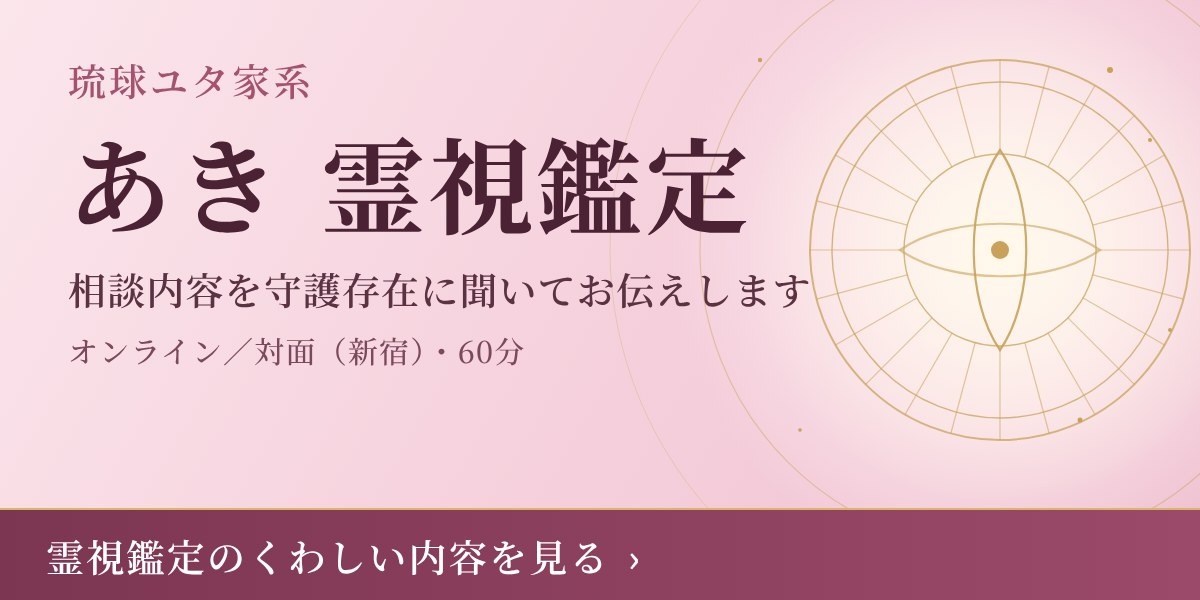
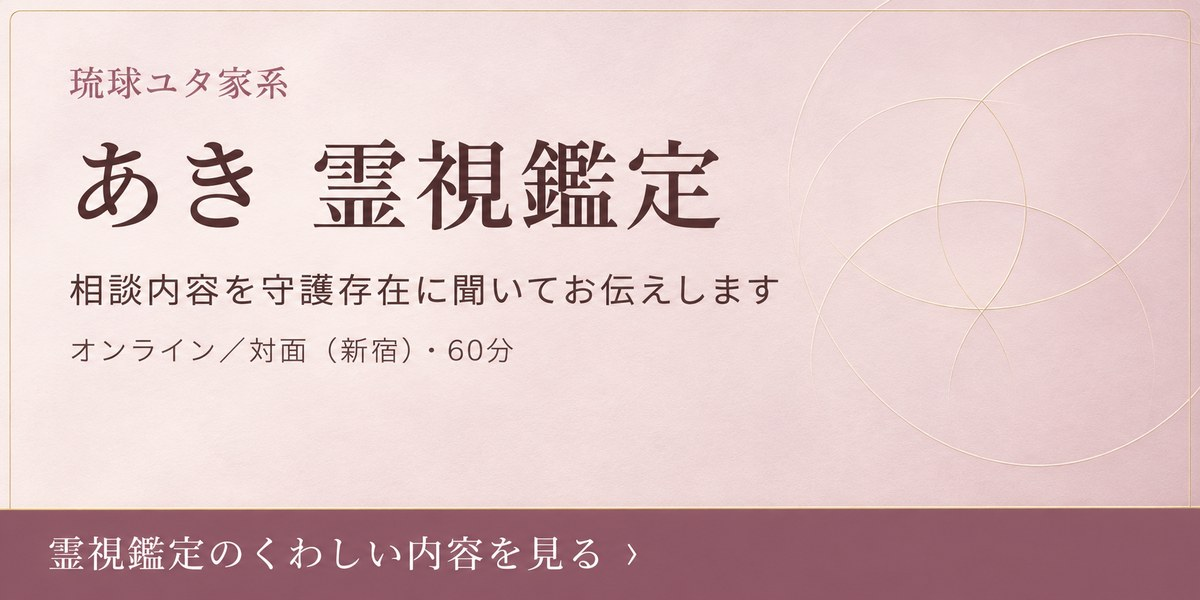
あき霊視鑑定バナーを本人提供の画像に差し替え
Claude-Session: https://claude.ai/code/session_01WnJ4nSDsseRo9fW9bmER42

diff --git a/index.html b/index.html
@@ -1876,7 +1876,7 @@ function resultHTML(){
     <div class="ctabar hide" id="ctabar2" aria-hidden="true"><button class="btn rose cta shine coral" id="ctago2" type="button" tabindex="-1">このデザインで相談する（無料）<span class="arr">›</span></button></div>
     <a class="xban" href="https://motonory-a.github.io/japan-power-spots/?utm_source=bracelet&utm_medium=banner&utm_content=result" target="_blank" rel="noopener" data-track="ps_banner"><picture><source type="image/webp" srcset="banners/powerspot-banner-800.webp 800w, banners/powerspot-banner-1200.webp 1200w" sizes="(max-width:720px) 100vw, 640px"><img src="banners/powerspot-banner-1200.jpg" srcset="banners/powerspot-banner-800.jpg 800w, banners/powerspot-banner-1200.jpg 1200w" sizes="(max-width:720px) 100vw, 640px" width="1200" height="600" loading="lazy" decoding="async" alt="開運パワースポット巡り　次のお休み、どこに行こうか?　あなたに合う聖地を探す"></picture></a>
     <a class="xban" href="https://motonory-a.github.io/kippoui-hikkoshi/?utm_source=bracelet&utm_medium=banner&utm_content=result" target="_blank" rel="noopener" data-track="kh_banner"><picture><source type="image/webp" srcset="banners/kippoui-banner-800.webp 800w, banners/kippoui-banner-1200.webp 1200w" sizes="(max-width:720px) 100vw, 640px"><img src="banners/kippoui-banner-1200.jpg" srcset="banners/kippoui-banner-800.jpg 800w, banners/kippoui-banner-1200.jpg 1200w" sizes="(max-width:720px) 100vw, 640px" width="1200" height="600" loading="lazy" decoding="async" alt="開運！吉方位　引越しナビ　いつ、どの方位へ動くか。引越しの吉方位を調べる"></picture></a>
-    <a class="xban" href="https://motonory-a.github.io/aki-reishi/?utm_source=bracelet&utm_medium=banner&utm_content=result" target="_blank" rel="noopener" data-track="aki_banner"><picture><source type="image/webp" srcset="banners/aki-wide-banner-800.webp 800w, banners/aki-wide-banner-1200.webp 1200w" sizes="(max-width:720px) 100vw, 640px"><img src="banners/aki-wide-banner-1200.jpg" srcset="banners/aki-wide-banner-800.jpg 800w, banners/aki-wide-banner-1200.jpg 1200w" sizes="(max-width:720px) 100vw, 640px" width="1200" height="600" loading="lazy" decoding="async" alt="琉球ユタ家系　あき　霊視鑑定　相談内容を守護存在に聞いてお伝えします　オンライン/対面(新宿)・60分　詳しく見る"></picture></a>
+    <a class="xban" href="https://motonory-a.github.io/aki-reishi/?utm_source=bracelet&utm_medium=banner&utm_content=result" target="_blank" rel="noopener" data-track="aki_banner"><picture><source type="image/webp" srcset="banners/aki-wide-banner-800.webp?v=2 800w, banners/aki-wide-banner-1200.webp?v=2 1200w" sizes="(max-width:720px) 100vw, 640px"><img src="banners/aki-wide-banner-1200.jpg?v=2" srcset="banners/aki-wide-banner-800.jpg?v=2 800w, banners/aki-wide-banner-1200.jpg?v=2 1200w" sizes="(max-width:720px) 100vw, 640px" width="1200" height="600" loading="lazy" decoding="async" alt="琉球ユタ家系　あき　霊視鑑定　相談内容を守護存在に聞いてお伝えします　オンライン/対面(新宿)・60分　詳しく見る"></picture></a>
     <button class="linkbtn" id="restart" type="button">最初からやり直す</button>${TEST_MODE?feedbackHTML():""}</div>`;
 }
 function detailHTML(D){
